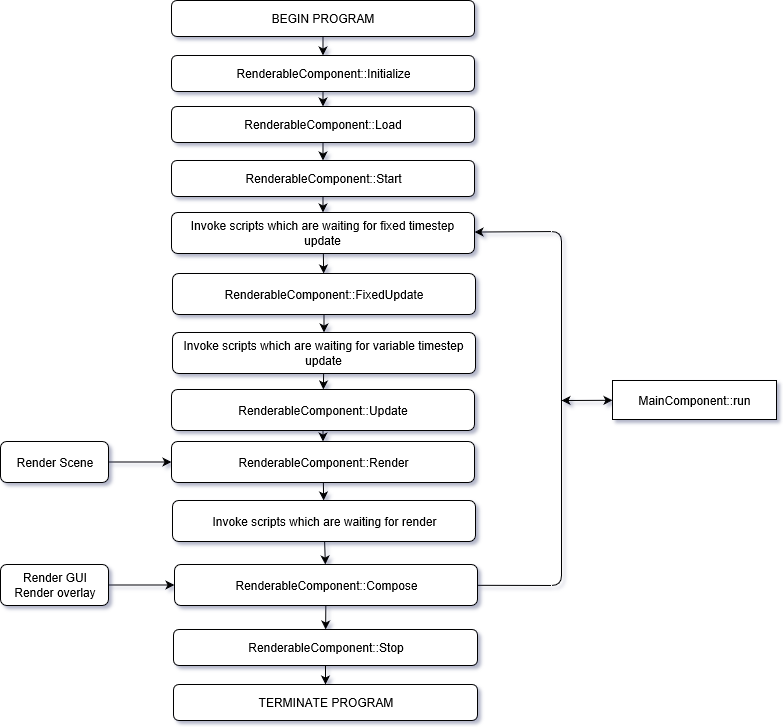
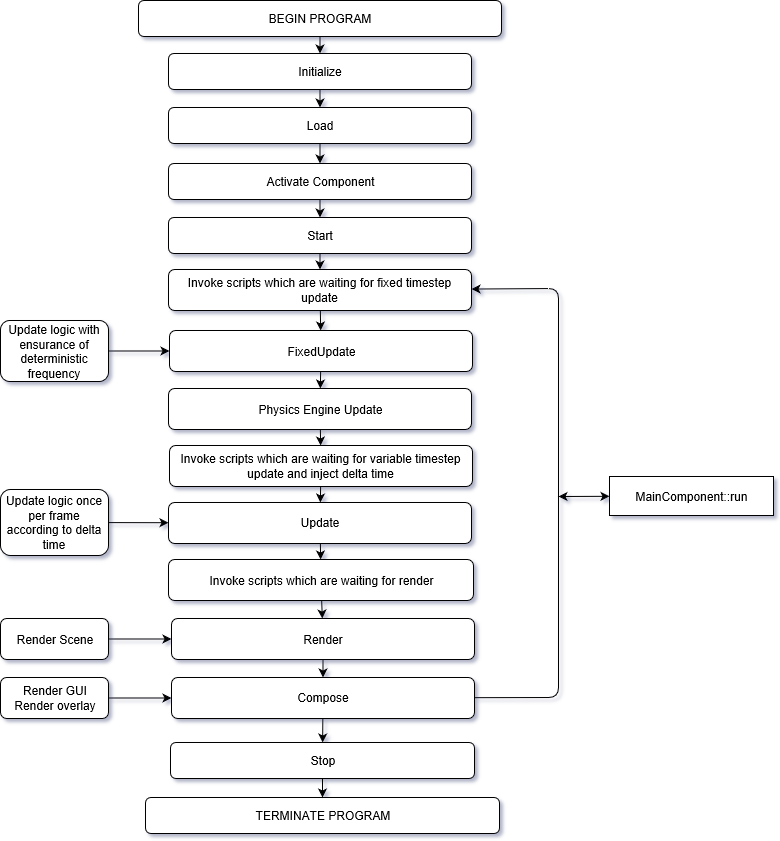
updated order of execution

diff --git a/WickedEngine/MainComponent.cpp b/WickedEngine/MainComponent.cpp
@@ -88,7 +88,6 @@ void MainComponent::run()
 	const double elapsedTime = max(0, timer.elapsed() / 1000.0);
 	timer.record();
 
-
 	// Fixed time update:
 	wiProfiler::GetInstance().BeginRange("Fixed Update", wiProfiler::DOMAIN_CPU);
 	if (frameskip)
@@ -99,19 +98,19 @@ void MainComponent::run()
 
 		while (accumulator >= targetFrameRateInv)
 		{
-
 			FixedUpdate();
-
 			accumulator -= targetFrameRateInv;
-
 		}
-
 	}
 	else
 	{
 		FixedUpdate();
 	}
 	wiProfiler::GetInstance().EndRange(); // Fixed Update
+
+	wiProfiler::GetInstance().BeginRange("Physics", wiProfiler::DOMAIN_CPU);
+	wiRenderer::SynchronizeWithPhysicsEngine((float)elapsedTime);
+	wiProfiler::GetInstance().EndRange(); // Physics
 
 	wiLua::GetGlobal()->SetDeltaTime(elapsedTime);
 

diff --git a/WickedEngine/Renderable3DComponent.cpp b/WickedEngine/Renderable3DComponent.cpp
@@ -231,7 +231,6 @@ void Renderable3DComponent::FixedUpdate()
 
 void Renderable3DComponent::Update(float dt)
 {
-	wiRenderer::SynchronizeWithPhysicsEngine(dt);
 	wiRenderer::UpdatePerFrameData(dt);
 
 	Renderable2DComponent::Update(dt);
